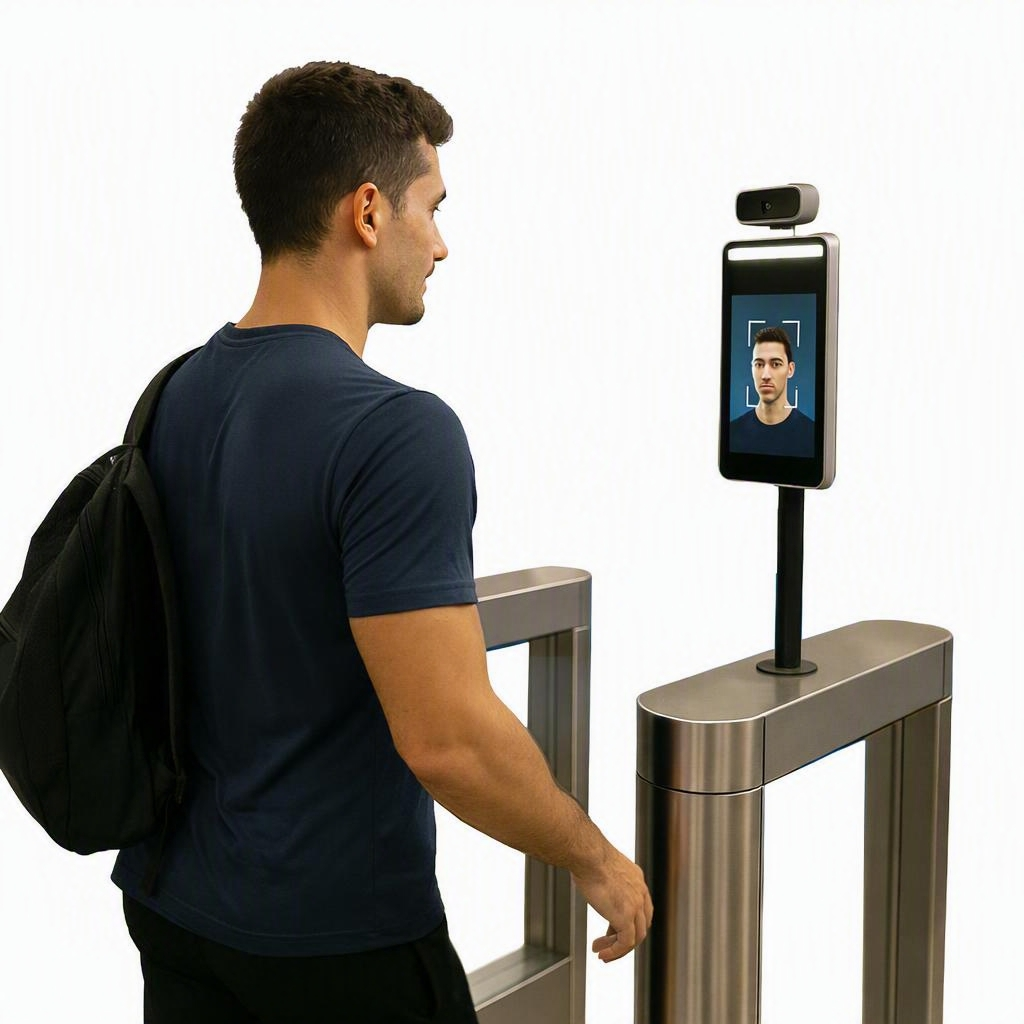
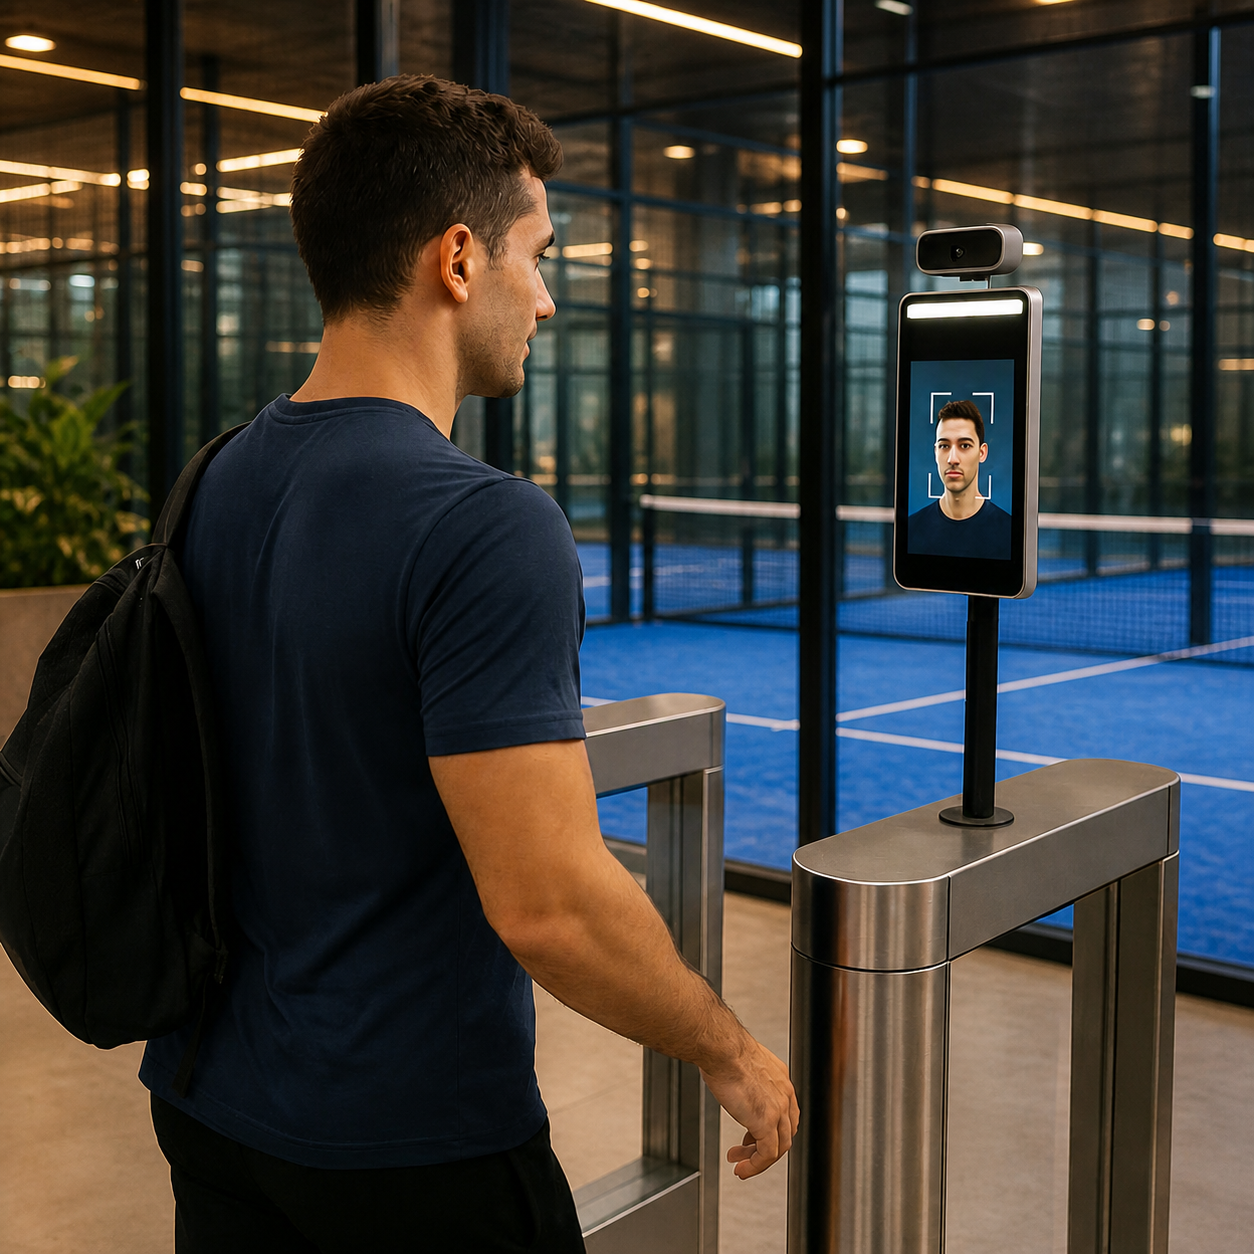
Place intelligent access inside padel club

diff --git a/padbol-match-frontend/public/sw.js b/padbol-match-frontend/public/sw.js
@@ -8,7 +8,7 @@
  * - /static/* hasheado: cache-first (immutable).
  * - Iconos/manifest: cache-first con revalidación al fallar red.
  */
-const CACHE_VERSION = 'pwa-1785963306048';
+const CACHE_VERSION = 'pwa-1785963776108';
 
 /** postMessage al cliente cuando se reemplazó una caché anterior (actualización real). */
 const MSG_UPDATED = 'PM_SW_UPDATED';

diff --git a/padbol-match-frontend/src/pwaBuildId.js b/padbol-match-frontend/src/pwaBuildId.js
@@ -1,2 +1,2 @@
 /* Auto-generado por scripts/emit-pwa-build-id.js (prebuild/prestart) — no editar a mano */
-export const PWA_BUILD_ID = "pwa-1785963306048";
+export const PWA_BUILD_ID = "pwa-1785963776108";
